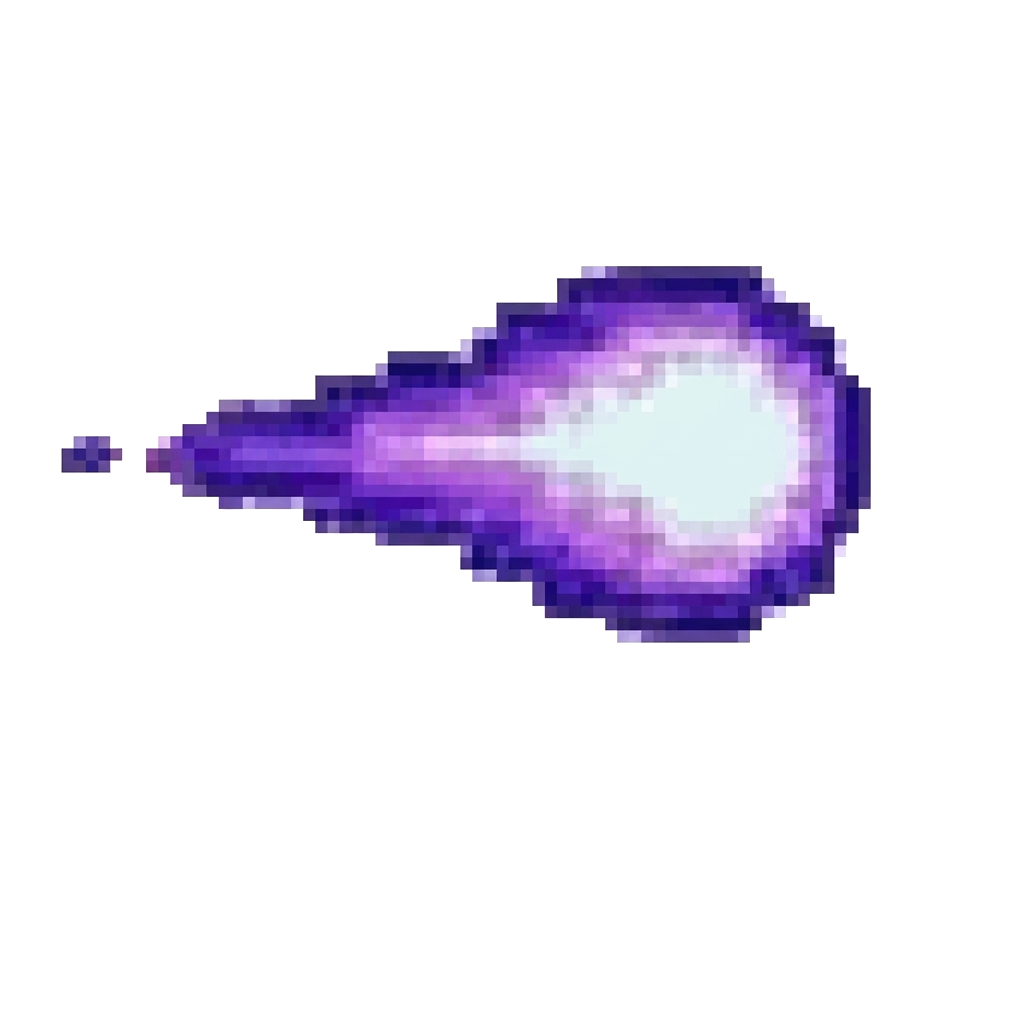
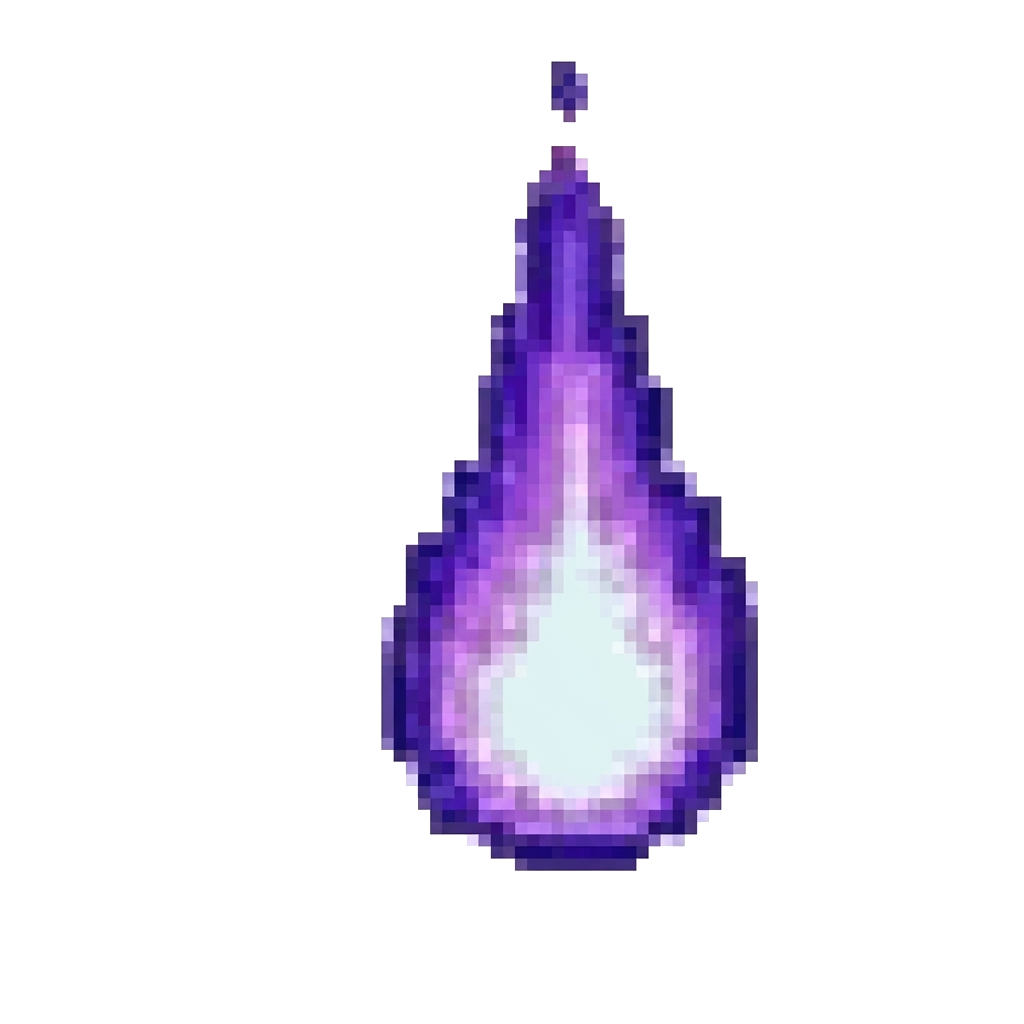
feat(user 2): faire le tir ennemie
[Done]/[40]

Changed region(s): [[0.0625, 0.0625, 0.875, 0.875]]

diff --git a/code/ShootEmUp/Model/Ennemie.cs b/code/ShootEmUp/Model/Ennemie.cs
@@ -9,11 +9,14 @@ namespace ShootEmUp
 {
     public class Ennemie
     {
+        public const int COOLDOWN = 30;
         private const int SPEED = 10;
         public int x;
         public int y;
         public State state = State.RIGHT;
-        
+        public int timecooldown = COOLDOWN;
+
+
         public enum State { RIGHT, LEFT }
 
         // Constructeur
@@ -25,6 +28,9 @@ namespace ShootEmUp
 
         public void Update(int interval)
         {
+            timecooldown--;
+            if (timecooldown <= 0)
+                shoot();
             int space = GameSpace.WIDTH - Config.ENNEMIE_SIZE;
             
             
@@ -58,6 +64,13 @@ namespace ShootEmUp
             
             if (state == State.LEFT)
                 drawingSpace.Graphics.DrawImage(Resources.EnnemieMouvementGauche, x, y, Config.ENNEMIE_SIZE, Config.ENNEMIE_SIZE);
+        }
+
+        public Tir shoot()
+        {
+            Tir tir = new Tir(x, y, 2);
+            return tir;
+
         }
 
     }

diff --git a/code/ShootEmUp/View/GameSpace.cs b/code/ShootEmUp/View/GameSpace.cs
@@ -58,7 +58,10 @@ namespace ShootEmUp
             _player.Update(interval);
             foreach (Tir tir in tirs)
             {
-                tir.y = tir.y - 5;
+                if(tir.type == 1)
+                    tir.y = tir.y - 5;
+                if (tir.type == 2)
+                    tir.y = tir.y + 5;
             }
 
             foreach (Ennemie ennemie in ennemies)
@@ -97,7 +100,16 @@ namespace ShootEmUp
             {
                 tirs.Add(_player.shoot());
                 _player.timenomove = Player.COOLDOWN;
-            }   
+            }
+
+            foreach (Ennemie ennemie in ennemies)
+            {
+                if (ennemie.timecooldown <= 0)
+                {
+                    tirs.Add(ennemie.shoot());
+                    ennemie.timecooldown = Ennemie.COOLDOWN;
+                }
+            }
         }
     }
 }

diff --git a/code/ShootEmUp/Model/Tir.cs b/code/ShootEmUp/Model/Tir.cs
@@ -13,17 +13,22 @@ namespace ShootEmUp
         private const int SPEED = 10;
         public int x;
         public int y;
+        public int type;
 
         // Constructeur
-        public Tir(int x, int y)
+        public Tir(int x, int y, int type)
         {
             this.x = x;
             this.y = y;
+            this.type = type;
         }
 
         public void Render(BufferedGraphics drawingSpace)
         {
-            drawingSpace.Graphics.DrawImage(Resources.playerShoot, x, y, 70, 70);
+            if(type == 1)
+                drawingSpace.Graphics.DrawImage(Resources.playerShoot, x, y, 70, 70);
+            if (type == 2)
+                drawingSpace.Graphics.DrawImage(Resources.TirEnnemie, x, y, 70, 70);
         }
     }
 }

diff --git a/code/ShootEmUp/Model/Player.cs b/code/ShootEmUp/Model/Player.cs
@@ -6,7 +6,7 @@ namespace ShootEmUp
     // Cette partie de la classe Player définit ce qu'est un modèle numérique du joueur
     public class Player
     {
-        public const int COOLDOWN = 10; 
+        public const int COOLDOWN = 20; 
         public string name;                           // Un nom
         public int x;                                 // Position en X depuis la gauche de l'espace aérien
         public int y;                               // Position en Y depuis le haut de l'espace aérien
@@ -55,7 +55,7 @@ namespace ShootEmUp
 
         public Tir shoot()
         {
-            Tir tir = new Tir(x, y);
+            Tir tir = new Tir(x, y, 1);
             return tir;
             
         }

diff --git a/code/ShootEmUp/Properties/Resources.Designer.cs b/code/ShootEmUp/Properties/Resources.Designer.cs
@@ -99,5 +99,15 @@ namespace ShootEmUp.Properties {
                 return ((System.Drawing.Bitmap)(obj));
             }
         }
+        
+        /// <summary>
+        ///   Recherche une ressource localisée de type System.Drawing.Bitmap.
+        /// </summary>
+        internal static System.Drawing.Bitmap TirEnnemie {
+            get {
+                object obj = ResourceManager.GetObject("TirEnnemie", resourceCulture);
+                return ((System.Drawing.Bitmap)(obj));
+            }
+        }
     }
 }
